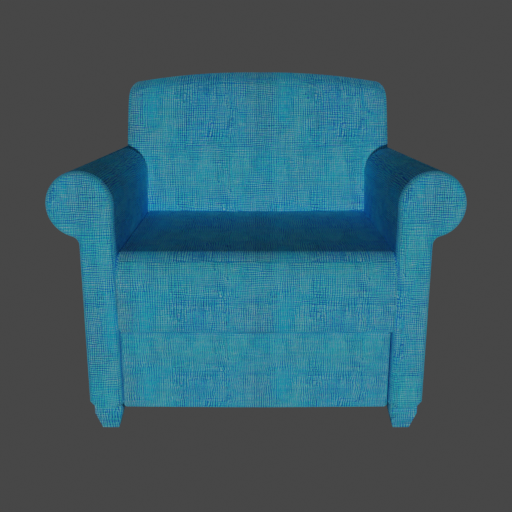
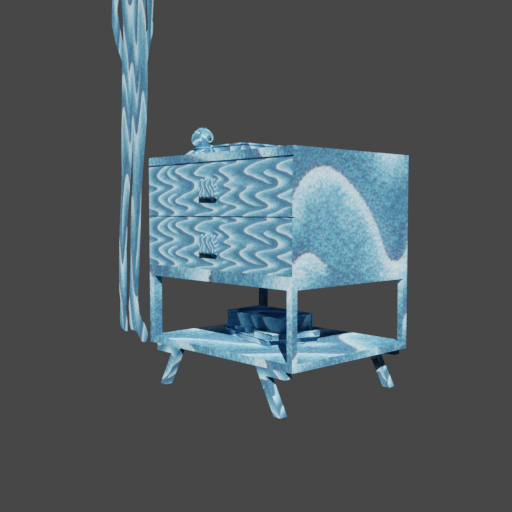
can encode image to latent space

diff --git a/stablediffusionwalk.py b/stablediffusionwalk.py
@@ -1,0 +1,200 @@
+"""
+stable diffusion dreaming
+creates hypnotic moving videos by smoothly walking randomly through the sample space
+
+example way to run this script:
+
+$ python stablediffusionwalk.py --prompt "blueberry spaghetti" --name blueberry
+
+to stitch together the images, e.g.:
+$ ffmpeg -r 10 -f image2 -s 512x512 -i blueberry/frame%06d.jpg -vcodec libx264 -crf 10 -pix_fmt yuv420p blueberry.mp4
+
+nice slerp def from @xsteenbrugge ty
+you have to have access to stablediffusion checkpoints from https://huggingface.co/CompVis
+and install all the other dependencies (e.g. diffusers library)
+"""
+
+import os
+import inspect
+import fire
+from diffusers import StableDiffusionPipeline
+from diffusers.schedulers import DDIMScheduler, LMSDiscreteScheduler, PNDMScheduler
+from time import time
+from PIL import Image
+from einops import rearrange
+import numpy as np
+import torch
+from torch import autocast
+from torchvision.utils import make_grid
+
+# -----------------------------------------------------------------------------
+
+@torch.no_grad()
+def diffuse(
+        pipe,
+        cond_embeddings, # text conditioning, should be (1, 77, 768)
+        cond_latents,    # image conditioning, should be (1, 4, 64, 64)
+        num_inference_steps,
+        guidance_scale,
+        eta,
+    ):
+    torch_device = cond_latents.get_device()
+
+    # classifier guidance: add the unconditional embedding
+    max_length = cond_embeddings.shape[1] # 77
+    uncond_input = pipe.tokenizer([""], padding="max_length", max_length=max_length, return_tensors="pt")
+    uncond_embeddings = pipe.text_encoder(uncond_input.input_ids.to(torch_device))[0]
+    text_embeddings = torch.cat([uncond_embeddings, cond_embeddings])
+
+    # if we use LMSDiscreteScheduler, let's make sure latents are mulitplied by sigmas
+    if isinstance(pipe.scheduler, LMSDiscreteScheduler):
+        cond_latents = cond_latents * pipe.scheduler.sigmas[0]
+
+    # init the scheduler
+    accepts_offset = "offset" in set(inspect.signature(pipe.scheduler.set_timesteps).parameters.keys())
+    extra_set_kwargs = {}
+    if accepts_offset:
+        extra_set_kwargs["offset"] = 1
+    pipe.scheduler.set_timesteps(num_inference_steps, **extra_set_kwargs)
+    # prepare extra kwargs for the scheduler step, since not all schedulers have the same signature
+    # eta (η) is only used with the DDIMScheduler, it will be ignored for other schedulers.
+    # eta corresponds to η in DDIM paper: https://arxiv.org/abs/2010.02502
+    # and should be between [0, 1]
+    accepts_eta = "eta" in set(inspect.signature(pipe.scheduler.step).parameters.keys())
+    extra_step_kwargs = {}
+    if accepts_eta:
+        extra_step_kwargs["eta"] = eta
+
+    # diffuse!
+    for i, t in enumerate(pipe.scheduler.timesteps):
+
+        # expand the latents for classifier free guidance
+        latent_model_input = torch.cat([cond_latents] * 2)
+        if isinstance(pipe.scheduler, LMSDiscreteScheduler):
+            sigma = pipe.scheduler.sigmas[i]
+            latent_model_input = latent_model_input / ((sigma**2 + 1) ** 0.5)
+
+        # predict the noise residual
+        noise_pred = pipe.unet(latent_model_input, t, encoder_hidden_states=text_embeddings)["sample"]
+
+        # cfg
+        noise_pred_uncond, noise_pred_text = noise_pred.chunk(2)
+        noise_pred = noise_pred_uncond + guidance_scale * (noise_pred_text - noise_pred_uncond)
+
+        # compute the previous noisy sample x_t -> x_t-1
+        if isinstance(pipe.scheduler, LMSDiscreteScheduler):
+            
+            '''
+            cond_latents: contains ['pred_original_sample'] and ['prev_sample']
+            '''
+            cond_latents = pipe.scheduler.step(noise_pred, i, cond_latents, **extra_step_kwargs)
+            cond_latents = cond_latents["prev_sample"]
+            print()
+        else:
+            cond_latents = pipe.scheduler.step(noise_pred, t, cond_latents, **extra_step_kwargs)["prev_sample"]
+
+    # scale and decode the image latents with vae
+    cond_latents = 1 / 0.18215 * cond_latents
+    image = pipe.vae.decode(cond_latents)['sample']
+
+    # generate output numpy image as uint8
+    image = (image / 2 + 0.5).clamp(0, 1)
+    image = image.cpu().permute(0, 2, 3, 1).numpy()
+    image = (image[0] * 255).astype(np.uint8)
+
+    return image
+
+def slerp(t, v0, v1, DOT_THRESHOLD=0.9995):
+    """ helper function to spherically interpolate two arrays v1 v2 """
+
+    if not isinstance(v0, np.ndarray):
+        inputs_are_torch = True
+        input_device = v0.device
+        v0 = v0.cpu().numpy()
+        v1 = v1.cpu().numpy()
+
+    dot = np.sum(v0 * v1 / (np.linalg.norm(v0) * np.linalg.norm(v1)))
+    if np.abs(dot) > DOT_THRESHOLD:
+        v2 = (1 - t) * v0 + t * v1
+    else:
+        theta_0 = np.arccos(dot)
+        sin_theta_0 = np.sin(theta_0)
+        theta_t = theta_0 * t
+        sin_theta_t = np.sin(theta_t)
+        s0 = np.sin(theta_0 - theta_t) / sin_theta_0
+        s1 = sin_theta_t / sin_theta_0
+        v2 = s0 * v0 + s1 * v1
+
+    if inputs_are_torch:
+        v2 = torch.from_numpy(v2).to(input_device)
+
+    return v2
+
+def run(
+        # --------------------------------------
+        # args you probably want to change
+        prompt = "red leather texture map, 4k", # prompt to dream about
+        gpu = 0, # id of the gpu to run on
+        name = 'red leather_walk', # name of this project, for the output directory
+        rootdir = './out',
+        num_steps = 50, # number of steps between each pair of sampled points
+        max_frames = 50, # number of frames to write and then exit the script
+        num_inference_steps = 50, # more (e.g. 100, 200 etc) can create slightly better images
+        guidance_scale = 7.5, # can depend on the prompt. usually somewhere between 3-10 is good
+        seed = 1337,
+        # --------------------------------------
+        # args you probably don't want to change
+        quality = 100, # for jpeg compression of the output images
+        eta = 0.0,
+        width = 256,
+        height = 256,
+        weights_path = "CompVis/stable-diffusion-v1-4",
+        # --------------------------------------
+    ):
+    assert torch.cuda.is_available()
+    assert height % 8 == 0 and width % 8 == 0
+    torch.manual_seed(seed)
+    torch_device = f"cuda:{gpu}"
+
+    # init the output dir
+    outdir = os.path.join(rootdir, name)
+    os.makedirs(outdir, exist_ok=True)
+
+    # init all of the models and move them to a given GPU
+    lms = LMSDiscreteScheduler(beta_start=0.00085, beta_end=0.012, beta_schedule="scaled_linear")
+    pipe = StableDiffusionPipeline.from_pretrained(weights_path, scheduler=lms, use_auth_token=True)
+
+    pipe.unet.to(torch_device)
+    pipe.vae.to(torch_device)
+    pipe.text_encoder.to(torch_device)
+
+    # get the conditional text embeddings based on the prompt
+    text_input = pipe.tokenizer(prompt, padding="max_length", max_length=pipe.tokenizer.model_max_length, truncation=True, return_tensors="pt")
+    cond_embeddings = pipe.text_encoder(text_input.input_ids.to(torch_device))[0] # shape [1, 77, 768]
+
+    # sample a source
+    init1 = torch.randn((1, pipe.unet.in_channels, height // 8, width // 8), device=torch_device)
+
+    # iterate the loop
+    frame_index = 0
+    while frame_index < max_frames:
+
+        # sample the destination
+        init2 = torch.randn((1, pipe.unet.in_channels, height // 8, width // 8), device=torch_device)
+
+        for i, t in enumerate(np.linspace(0, 1, num_steps)):
+            init = slerp(float(t), init1, init2)
+
+            print("dreaming... ", frame_index)
+            with autocast("cuda"):
+                image = diffuse(pipe, cond_embeddings, init, num_inference_steps, guidance_scale, eta)
+            im = Image.fromarray(image)
+            outpath = os.path.join(outdir, 'frame%06d.jpg' % frame_index)
+            im.save(outpath, quality=quality)
+            frame_index += 1
+
+        init1 = init2
+
+
+if __name__ == '__main__':
+    fire.Fire(run)

diff --git a/explore_latent.py b/explore_latent.py
@@ -1,0 +1,128 @@
+
+'''
+Code heavily adapted from https://colab.research.google.com/drive/1dlgggNa5Mz8sEAGU0wFCHhGLFooW_pf1#scrollTo=cbmk3JqVs5yQ 
+requires diffusers==0.2.4
+'''
+import torch
+from transformers import CLIPTextModel, CLIPTokenizer
+from diffusers import AutoencoderKL, UNet2DConditionModel, LMSDiscreteScheduler
+from tqdm.auto import tqdm
+from torch import autocast
+from PIL import Image
+from matplotlib import pyplot as plt
+import numpy
+from torchvision import transforms as tfms
+import utils 
+
+# Set device
+torch_device = "cuda" if torch.cuda.is_available() else "cpu"
+height = 256                      # default height of Stable Diffusion
+width = 256                     # default width of Stable Diffusion
+num_inference_steps = 50  #@param           # Number of denoising steps
+guidance_scale = 8                # Scale for classifier-free guidance
+generator = torch.manual_seed(32)   # Seed generator to create the inital latent noise
+batch_size = 1
+
+# Using torchvision.transforms.ToTensor
+to_tensor_tfm = tfms.ToTensor()
+
+def pil_to_latent(input_im):
+  # Single image -> single latent in a batch (so size 1, 4, 64, 64)
+  with torch.no_grad():
+    latent = vae.encode(to_tensor_tfm(input_im).unsqueeze(0).to(torch_device)*2-1) # Note scaling
+  return 0.18215 * latent.mean # or .mean or .sample
+
+def latents_to_pil(latents):
+  # bath of latents -> list of images
+  latents = (1 / 0.18215) * latents
+  with torch.no_grad():
+    image = vae.decode(latents)
+  image = (image / 2 + 0.5).clamp(0, 1)
+  image = image.detach().cpu().permute(0, 2, 3, 1).numpy()
+  images = (image * 255).round().astype("uint8")
+  pil_images = [Image.fromarray(image) for image in images]
+  return pil_images
+
+# MODEL LOADING
+#####################################################################################################################
+# Load the autoencoder model which will be used to decode the latents into image space. 
+vae = AutoencoderKL.from_pretrained("CompVis/stable-diffusion-v1-4", subfolder="vae", use_auth_token=True)
+# Load the tokenizer and text encoder to tokenize and encode the text. 
+tokenizer = CLIPTokenizer.from_pretrained("openai/clip-vit-large-patch14")
+text_encoder = CLIPTextModel.from_pretrained("openai/clip-vit-large-patch14")
+# The UNet model for generating the latents.
+unet = UNet2DConditionModel.from_pretrained("CompVis/stable-diffusion-v1-4", subfolder="unet", use_auth_token=True)
+# The noise scheduler
+scheduler = LMSDiscreteScheduler(beta_start=0.00085, beta_end=0.012, beta_schedule="scaled_linear", num_train_timesteps=1000)
+# To the GPU we go!
+vae = vae.to(torch_device)
+text_encoder = text_encoder.to(torch_device)
+unet = unet.to(torch_device)
+#####################################################################################################################
+
+input_image = Image.open('./init_redleather.png').resize((256,256))
+
+# Encode to the latent space
+encoded = pil_to_latent(input_image)
+
+# # View a noised version
+# noise = torch.randn_like(encoded) # Random noise
+# timestep = 150 # i.e. equivalent to that at 150/1000 training steps
+# start_timestep = int(scheduler.timesteps[timestep])
+# encoded_and_noised = scheduler.add_noise(encoded, noise, start_timestep)
+# decoded_img = latents_to_pil(encoded_and_noised)[0] # Display
+
+# utils.show2images(input_image,decoded_img)
+
+# STEERING AN I
+#####################################################################################################################
+prompt = ["blue steel texture map, 4k"] #@param
+# Prep text 
+text_input = tokenizer(prompt, padding="max_length", max_length=tokenizer.model_max_length, truncation=True, return_tensors="pt")
+with torch.no_grad():
+  text_embeddings = text_encoder(text_input.input_ids.to(torch_device))[0]
+max_length = text_input.input_ids.shape[-1]
+uncond_input = tokenizer(
+    [""] * batch_size, padding="max_length", max_length=max_length, return_tensors="pt"
+)
+with torch.no_grad():
+  uncond_embeddings = text_encoder(uncond_input.input_ids.to(torch_device))[0] 
+text_embeddings = torch.cat([uncond_embeddings, text_embeddings])
+
+# Prep Scheduler
+scheduler.set_timesteps(num_inference_steps)
+
+# Start step
+start_step = 49 #@param Explore ;) The earlier the step, the higher the sigma which means more noise is added. The later the step, the less noise.
+start_sigma = scheduler.sigmas[start_step]
+start_timestep = int(scheduler.timesteps[start_step])
+
+# Prep latents
+noise = torch.randn_like(encoded)
+latents = scheduler.add_noise(encoded, noise, start_timestep)
+latents = latents.to(torch_device)
+latents = latents * start_sigma  # << NB
+
+# Loop
+with autocast("cuda"):
+  for i, t in tqdm(enumerate(scheduler.timesteps)):
+    if i > start_step:
+      # expand the latents if we are doing classifier-free guidance to avoid doing two forward passes.
+      latent_model_input = torch.cat([latents] * 2)
+      sigma = scheduler.sigmas[i]
+      latent_model_input = latent_model_input / ((sigma**2 + 1) ** 0.5)
+
+      # predict the noise residual
+      with torch.no_grad():
+        noise_pred = unet(latent_model_input, t, encoder_hidden_states=text_embeddings)["sample"]
+
+      # perform guidance
+      noise_pred_uncond, noise_pred_text = noise_pred.chunk(2)
+      noise_pred = noise_pred_uncond + guidance_scale * (noise_pred_text - noise_pred_uncond)
+
+      # compute the previous noisy sample x_t -> x_t-1
+      latents = scheduler.step(noise_pred, i, latents)["prev_sample"]
+
+decoded_img = latents_to_pil(latents)[0]
+utils.show2images(input_image,decoded_img)
+print()

diff --git a/texture_transfer_3d.py b/texture_transfer_3d.py
@@ -38,12 +38,12 @@ if __name__=="__main__":
 
     model = TextureDiffusion()
 
-    prompt = "blue carpet"
+    prompt = "red leather"
     images = []
-    sample_num = 1
+    sample_num = 25
 
     start_synth = time.time() 
-    images = model.text2texture(prompt)
+    images = model.text2texture(prompt,imsize=256, n=sample_num)
     end_synth = time.time()
     print(f'Time elapsed for text-to-texture synthesis: {abs(end_synth-start_synth)}s')
 
@@ -52,15 +52,15 @@ if __name__=="__main__":
         text_path = str(p.Path.cwd() / text_impath)
         images[i].save(text_path)
 
-    start_transfer = time.time()
-    mesh_folder = "./data/3d_models/nightstand"
-    mesh_path = os.path.join(mesh_folder,'base.obj')
-    rendering_folder = str(p.Path.cwd() / "out")
-    command_str = f'blender --background --python rendering/blender.py -- --mesh_folder {mesh_folder} --texture {text_path} --renderfolder {rendering_folder}'
+    # start_transfer = time.time()
+    # mesh_folder = "./data/3d_models/nightstand"
+    # mesh_path = os.path.join(mesh_folder,'base.obj')
+    # rendering_folder = str(p.Path.cwd() / "out")
+    # command_str = f'blender --background --python rendering/blender.py -- --mesh_folder {mesh_folder} --texture {text_path} --renderfolder {rendering_folder}'
     
-    print(command_str)
-    os.system(command_str)
-    end_transfer = time.time()
-    print(f'Time elapsed for texture transfer: {abs(end_transfer-start_transfer)}s')
+    # print(command_str)
+    # os.system(command_str)
+    # end_transfer = time.time()
+    # print(f'Time elapsed for texture transfer: {abs(end_transfer-start_transfer)}s')
 
     

diff --git a/utils.py b/utils.py
@@ -1,0 +1,10 @@
+import matplotlib.pyplot as plt 
+import numpy as np 
+
+def show2images(leftpic,rightpic):
+    f = plt.figure()
+    f.add_subplot(1,2, 1)
+    plt.imshow(np.rot90(leftpic,2))
+    f.add_subplot(1,2, 2)
+    plt.imshow(np.rot90(rightpic,2))
+    plt.show(block=True)
